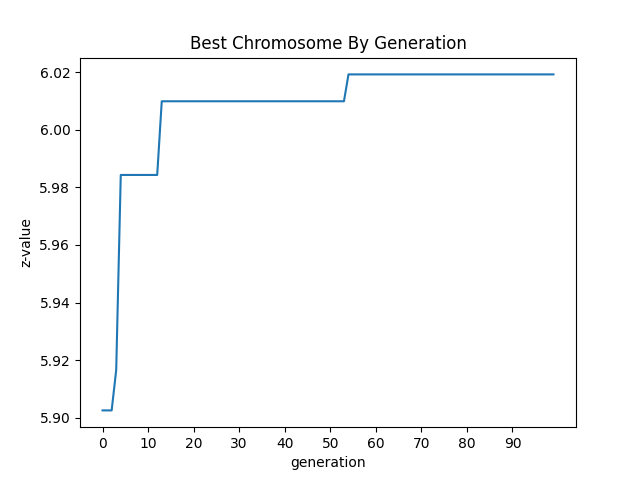
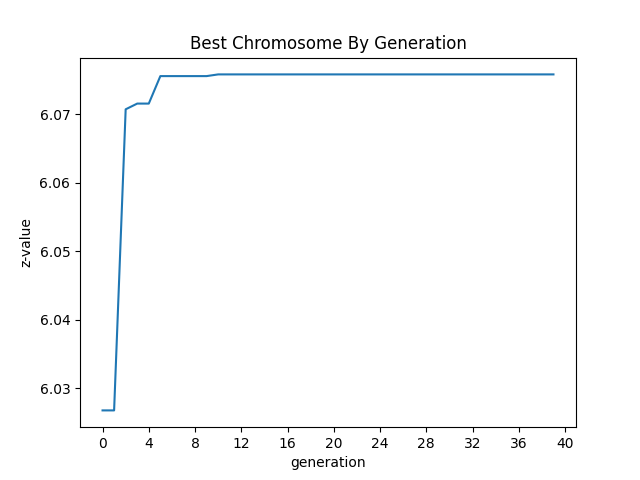
more viz

diff --git a/project3/python/plotter.py b/project3/python/plotter.py
@@ -4,12 +4,12 @@ import matplotlib.pyplot as plt
 from matplotlib import cm
 import util
 
-def plot3d(xDomain, yDomain, objectiveFunc, savePath = '.', **kwargs):
+def plot3d(xDomain, yDomain, objectiveFunc, savePath = '.'):
     figure = plt.figure()
     axis = figure.gca(projection='3d')
 
-    x = np.arange(xDomain[0], xDomain[1], 0.5)
-    y = np.arange(yDomain[0], yDomain[1], 0.5)
+    x = np.linspace(xDomain[0], xDomain[1], 1000)
+    y = np.linspace(yDomain[0], yDomain[1], 1000)
     x, y = np.meshgrid(x, y)
     z = objectiveFunc(x, y)
 
@@ -18,22 +18,24 @@ def plot3d(xDomain, yDomain, objectiveFunc, savePath = '.', **kwargs):
 
     figure.colorbar(surface, shrink=0.5, aspect=5,)
     plt.savefig(f'{savePath}/objectivePlot.png')
+    #plt.show()
     plt.show(block=False)
     plt.pause(2)
     plt.close()
 
-def plot2d(values, title='', xLabel='time', yLabel='values', savePath='.', tickFreq=1):
+def plot2dTimeSeries(values, title='series', xLabel='time', yLabel='values', savePath='.'):
     """Plot 2d time series"""
     plt.plot(values)
     plt.ylabel(yLabel)
     plt.xlabel(xLabel)
-    ticks = []
-    for i in range(len(values)):
-        if i % tickFreq == 0:
-            ticks.append(i)
-    plt.xticks(ticks)
+    plt.xticks(np.linspace(0, len(values), 11))
     plt.title(title)
     plt.savefig(f'{savePath}/{title}.png')
     plt.show(block=False)
-    plt.pause(1)
+    plt.pause(2)
     plt.close()
+
+def plot2dScatter(x, y, title='scatter', savePath='.'):
+    plt.scatter(x, y, cmap=cm.jet)
+    plt.savefig(f'{savePath}/{title}.png')
+    plt.show()

diff --git a/project3/python/sinln.py b/project3/python/sinln.py
@@ -2,6 +2,7 @@ import sys
 import math
 import numpy as np
 import random
+from datetime import datetime
 import copy
 from types import SimpleNamespace
 from operator import attrgetter
@@ -13,6 +14,8 @@ class SinLn(GA):
     def __init__(self, generations, populationSize, mutationRate, xDomain, yDomain, **kwargs):
         self.xDomain = xDomain
         self.yDomain = yDomain
+        random.seed(datetime.now())
+        np.random.seed(int(datetime.timestamp(datetime.now())))
         super(SinLn, self).__init__(generations, populationSize, mutationRate)
     
     def f(self, x, y):
@@ -131,11 +134,16 @@ if __name__ == "__main__":
         print(f'Proper use:\n\tpython3 {sys.argv[0]} PARAM_FILENAME.yaml')
     params = util.getParams(sys.argv[1])
     ga = SinLn(**params)
+    plotter.plot3d(ga.xDomain, ga.yDomain, ga.f)
     bestChromsByGen = ga.run()
-    plotter.plot2d(
+    plotter.plot2dTimeSeries(
         [chrom.fitness for chrom in bestChromsByGen],
         'Best Chromosome By Generation',
         'generation',
-        'z-value',
-        tickFreq=10
+        'z-value'
     )
+    plotter.plot2dScatter(
+        [chrom.alleles[0] for chrom in bestChromsByGen],
+        [chrom.alleles[1] for chrom in bestChromsByGen]
+    )
+    print(f'best chromosomes: {[chrom.alleles for chrom in bestChromsByGen]}')
